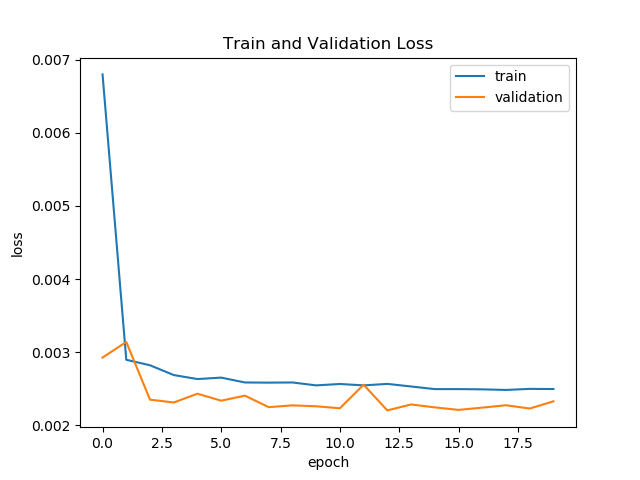
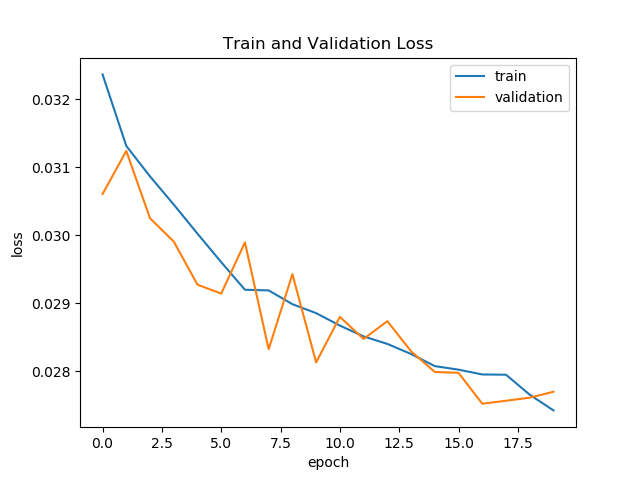
Corrected LSTM

diff --git a/lstm.py b/lstm.py
@@ -25,6 +25,7 @@ Y_energyDataWithWindow = []
 BATCH_SIZE = 32
 TIMESTEPS = 24
 EPOCH = 20
+PATIENCE = 3
 
 df = pd.read_csv('../trading-wind-energy/average-wind-speed.csv')
 speeds = df['Average Speed (m/s)']
@@ -62,11 +63,15 @@ scaler_energys.fit(energys)
 energys_scaled = scaler_energys.transform(energys)
 
 # Get shifted energy production data
-energys_shifted = df_energy['Energy Prooduction (kWh)'].shift(18)[
-    18:].to_numpy().reshape(-1, 1)
+num_inputs = energys_scaled.shape[0]
+energys_shifted = df_energy['Energy Prooduction (kWh)'].shift(
+    periods=-18)[TIMESTEPS-1:num_inputs-18].to_numpy().reshape(-1, 1)
 scaler_energys_shifted = MinMaxScaler()
 scaler_energys.fit(energys_shifted)
-energys_shifted_scaled = scaler_energys.transform(energys)
+energys_shifted_scaled = scaler_energys.transform(energys_shifted)
+# print("e shifted" + str(energys_shifted[:20, 0]))
+# print(energys_shifted.shape)
+# print("e shifted" + str(energys_shifted[30810:]))
 
 # Get wind speed data
 df_speed = pd.read_csv('../trading-wind-energy/average-wind-speed.csv')
@@ -108,7 +113,6 @@ speeds_scaled = scaler_speed.transform(speeds)
 # print("energy_transforemed" + str(energys_transformed.shape))
 
 # Combine energy and speed
-num_inputs = energys_scaled.shape[0]
 x = np.empty((num_inputs, 2))
 for i in range(num_inputs):
     x[i] = np.append(energys_scaled[i], speeds_scaled[i])
@@ -119,14 +123,19 @@ print("x" + str(x.shape))
 x_transformed = []
 for i in range(TIMESTEPS, num_inputs):
     x_transformed.append(x[i-TIMESTEPS:i, :])
-x_transformed= np.array(x_transformed)
-print(x_transformed[:10])
-print("x_transformed" + str(x_transformed.shape))
-
+x_transformed = np.array(x_transformed)
+# print(x_transformed[:10])
+# print("x_transformed" + str(x_transformed.shape))
+# print(x_transformed[x_transformed.shape[0]-40:x_transformed.shape[0]-17])
+print(speeds[-50:-17])
+print("energy:")
+print(energys[-50:-17])
+print("y")
+print(energys_shifted[-30:])
 
 # Split the data into train and test
 X_train, X_test, y_train, y_test = train_test_split(
-    x_transformed, energys_shifted_scaled[24:], test_size=0.2, random_state=0)
+    x_transformed[:-17], energys_shifted_scaled, test_size=0.2, random_state=0)
 
 n_features = 1
 # X_train = X_train.reshape(X_train.shape[0], X_train.shape[1], 1)
@@ -140,14 +149,14 @@ model.add(LSTM(48,  activation='tanh', input_shape=(
 model.add(Dense(48, activation='relu', input_dim=96))
 # model.add(Dense(32, activation='relu'))
 model.add(LSTM(24, activation='tanh'))
-model.add(Dropout(0.01))
+model.add(Dropout(0.1))
 model.add(Dense(1, activation='linear'))
 model.summary()
 
 
 opt = optimizers.Adam(learning_rate=0.001)
 model.compile(loss='mean_squared_error', optimizer=opt)
-es = EarlyStopping(monitor='val_loss', patience=5)
+es = EarlyStopping(monitor='val_loss', patience=PATIENCE)
 
 # Train model
 history = model.fit(X_train, y_train, epochs=EPOCH,
@@ -172,7 +181,7 @@ print('Test loss: ', results)
 # Predict
 print('Generating Predictions')
 predictions_array = model.predict(
-    X_test, batch_size=100, callbacks=[es])
+    X_test, batch_size=32, callbacks=[es])
 
 # Plot predictions vs actuals
 plt.plot(predictions_array[700:1000], label='predictions')
